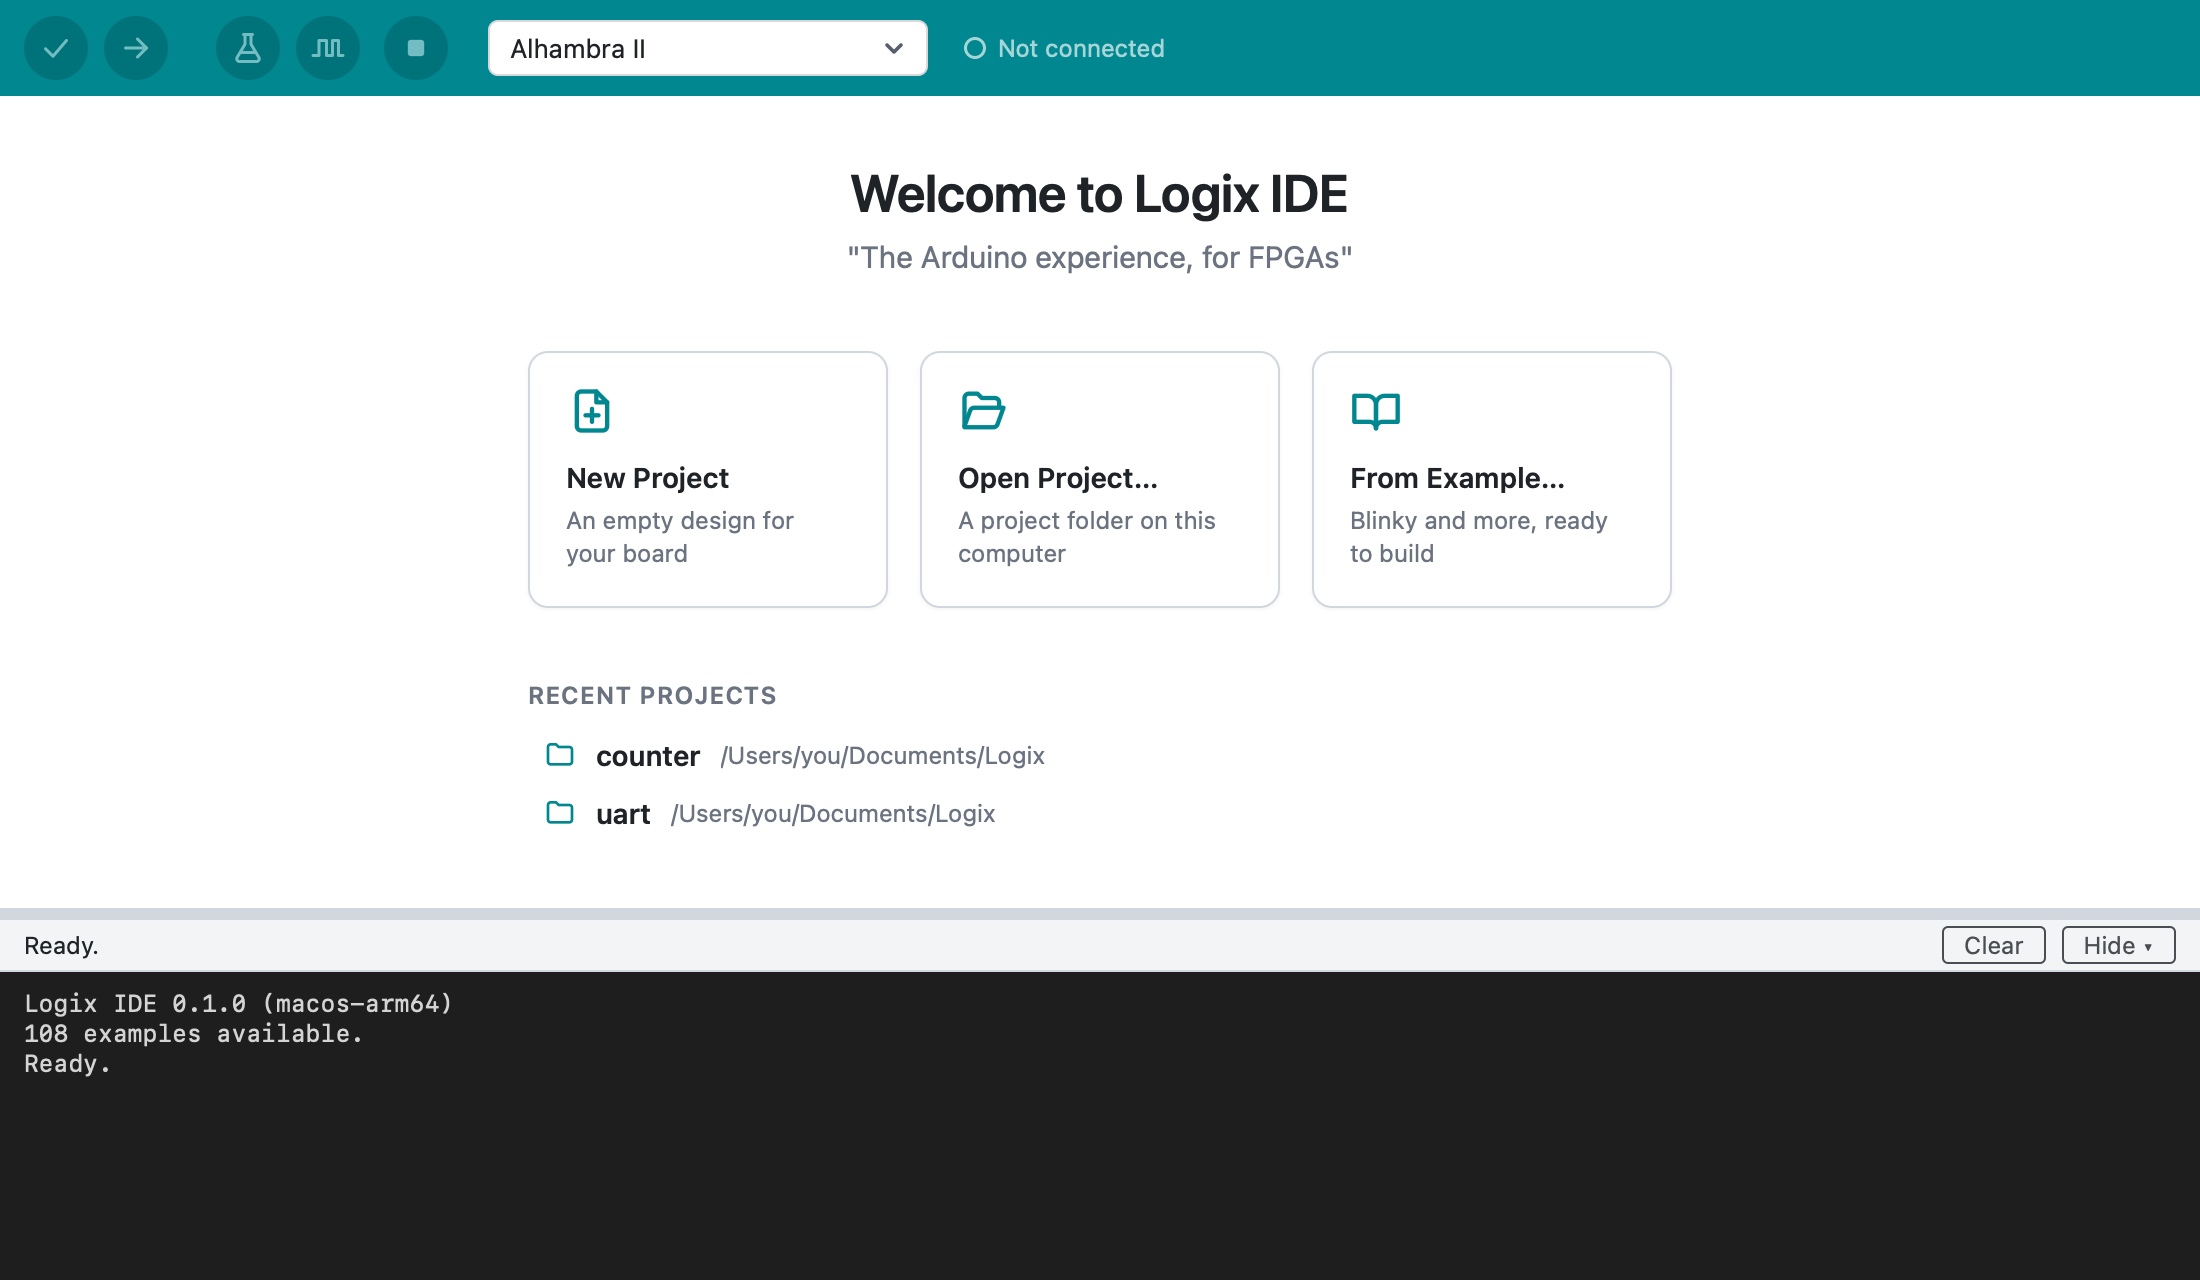
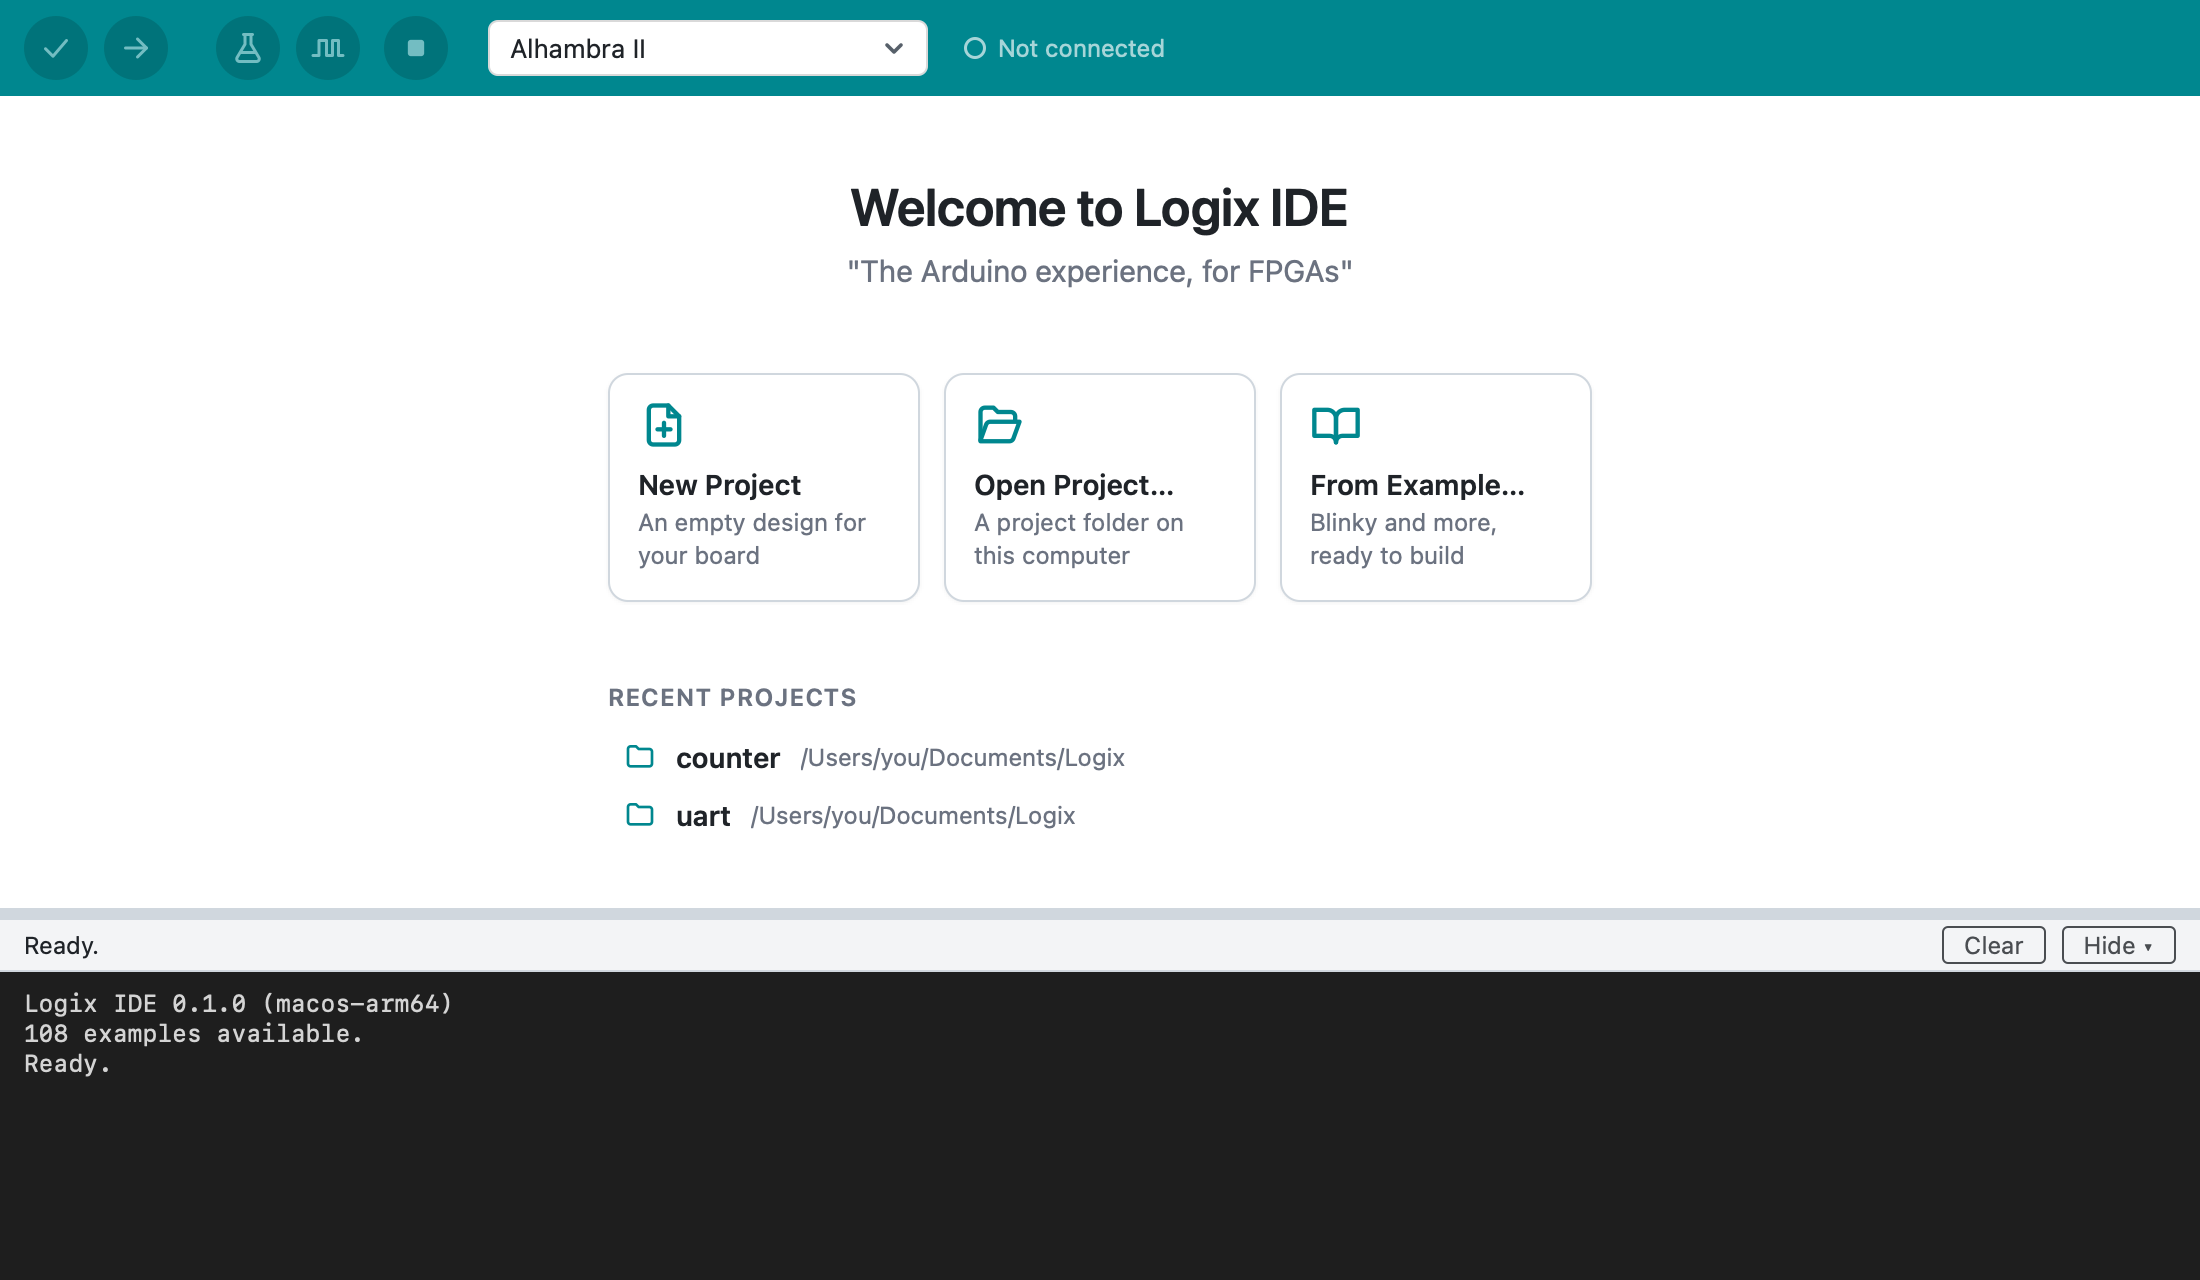
Start screen: equal space around the title, smaller cards

diff --git a/ui/src/App.svelte b/ui/src/App.svelte
@@ -1910,8 +1910,11 @@
     display: flex;
     flex-direction: column;
     align-items: center;
-    justify-content: center;
-    padding: 32px 24px;
+    /* Top-aligned, so the space above the title equals the space between
+       it and the cards (--welcome-gap) at any window height. */
+    --welcome-gap: 40px;
+    justify-content: flex-start;
+    padding: var(--welcome-gap) 24px 24px;
     text-align: center;
     overflow: auto;
   }
@@ -1933,16 +1936,16 @@
   }
   .start-actions {
     display: flex;
-    gap: 16px;
-    margin-top: 36px;
+    gap: 12px;
+    margin-top: var(--welcome-gap);
   }
   .start-actions button {
-    width: 180px;
+    width: 156px;
     display: flex;
     flex-direction: column;
     align-items: flex-start;
-    gap: 4px;
-    padding: 16px 18px 18px;
+    gap: 2px;
+    padding: 12px 14px 14px;
     font: inherit;
     text-align: left;
     border: 1px solid var(--border);
@@ -1971,7 +1974,7 @@
   }
   .start-icon {
     display: flex;
-    margin-bottom: 8px;
+    margin-bottom: 6px;
     color: var(--accent);
   }
   .start-title {
@@ -1984,8 +1987,8 @@
     color: var(--muted);
   }
   .recents {
-    margin-top: 36px;
-    width: 572px;
+    margin-top: var(--welcome-gap);
+    width: 492px;
     max-width: 100%;
     text-align: left;
   }

diff --git a/CLAUDE.md b/CLAUDE.md
@@ -228,7 +228,7 @@ Use the current major versions of GitHub's actions (`actions/checkout`, `setup-n
 - **Output (console) visibility**: View > Toggle Output (Cmd+J) or the Hide/Show button on the status bar hides the console and divider, leaving the one-line status bar. The choice is remembered (`localStorage`, like the console height). The console comes back by itself when Verify, Upload, Run Tests or Simulate starts, and when Auto Format or setup fails (`showOutput()` in `App.svelte`), as in Arduino IDE 2.
 - **Reopening the last project**: `src-tauri/src/settings.rs` keeps IDE settings in `~/.logix/settings.json` (unknown fields preserved). Opening, saving or Save As records the project folder; at startup the UI calls `open_last_project` and shows the start screen if there's none or it can't be loaded (with a console note). File > Close Project clears it (`close_project`; the recent projects stay), so the next start shows the start screen rather than the closed project.
 - **Always a board**: the toolbar always shows a board, with or without a project: the project's, or else `homeBoard` (the last chosen, `last_board`: `lastBoard` in `settings.json`, else `examples::DEFAULT_BOARD`, `alhambra-ii`, FPGAwars' board). Picking one with no project sets `homeBoard` and `lastBoard`; New Project and the examples use it. Only a project opened from disk without a board shows "Select board…".
-- **No project and the start screen** (decided): with no project open (`project === null`: the first start, no last project, or after File > Close Project), the editor area shows the start screen (`welcome` in `App.svelte`, labelled "Start"): "Welcome to Logix IDE", the motto, "Getting the FPGA tools ready…" or a pointer to the setup error while the tools aren't ready, three cards in a row (New Project, Open Project…, From Example…; each an accent-colored line icon, a title and a one-line hint, raised on hover), and up to 5 recent projects (rows with a folder icon, the folder name and, dimmed, its parent path). The title and motto have clear space (about 36 px) above the cards. Tabs and editor are hidden (not unmounted), and Verify etc. are disabled. No "Start with Blinky" button (removed, the user's decision): examples are one click away under From Example…. Why a start screen: "New" giving someone else's design (blinky) was confusing, and a single-window app needs a state without a project to close to. Close Project asks to save first (`confirmLeave`), keeps the board as `homeBoard`, clears `lastProject` (`close_project`, so a restart stays on the start screen), and ends with "Closed the project." and "Ready.".
+- **No project and the start screen** (decided): with no project open (`project === null`: the first start, no last project, or after File > Close Project), the editor area shows the start screen (`welcome` in `App.svelte`, labelled "Start"): "Welcome to Logix IDE", the motto, "Getting the FPGA tools ready…" or a pointer to the setup error while the tools aren't ready, three cards in a row (New Project, Open Project…, From Example…; each an accent-colored line icon, a title and a one-line hint, raised on hover), and up to 5 recent projects (rows with a folder icon, the folder name and, dimmed, its parent path). The screen is top-aligned, with the same space (`--welcome-gap`, 40 px) above the title, between the motto and the cards, and above the recent projects; the cards are compact (156 px wide). Tabs and editor are hidden (not unmounted), and Verify etc. are disabled. No "Start with Blinky" button (removed, the user's decision): examples are one click away under From Example…. Why a start screen: "New" giving someone else's design (blinky) was confusing, and a single-window app needs a state without a project to close to. Close Project asks to save first (`confirmLeave`), keeps the board as `homeBoard`, clears `lastProject` (`close_project`, so a restart stays on the start screen), and ends with "Closed the project." and "Ready.".
 - **New projects** (File > New Project > Empty Project, or the start screen's New Project): `new_project(board)` gives the board's Bare Minimum (its pin file and a `main.v` that builds and does nothing yet; see Bare Minimum), as Arduino's File > New gives an empty sketch, named "untitled"; boards without a starter get the no-pins `main.v`. It needs no tools (the examples are built in). Startup reopens the last project, or else shows the start screen; it never makes a project by itself. Changing the board never replaces files (as in Arduino): `setBoard` holds it in `pendingBoard` and opens the Examples dialog for that board only (`onlyBoard`; "Keep Current Files" or Esc applies the board, opening an example brings its own board, so "Save changes?" is only asked about real edits). A missing pin file is explained in plain words (`friendly` in `ui/src/lib/tasks.ts`).
 - **Board picker** (`ui/src/lib/BoardPicker.svelte`, like Arduino IDE 2's board selector; replaced a native `<select>`, which can't report picking the current board): a button with the board's name opens a searchable list (combobox + listbox, arrows/Page/Enter/Esc), "Connected" first, then all boards grouped by FPGA architecture (`Board.arch` from the engine catalog's FPGA `architecture`; groups and order in `ui/src/lib/boards.ts`: iCE40, ECP5, Gowin, Xilinx, then others). Picking any board, the current one included, calls `setBoard`. Architecture groups are collapsible (not "Connected"), in the picker and in the Examples dialog's boards column (`groupByArch`); the expanded ones are shared by both and remembered in `localStorage` (`ui/src/lib/expandedGroups.svelte.ts`, all collapsed by default), opening a list expands the current board's group, and a search shows matches in all groups.
 - **Board**: chosen in the toolbar's board picker and stored in `logix-ide.toml`. Changing it offers the board's examples (see New projects) and, if the files are kept, marks the project as unsaved.
